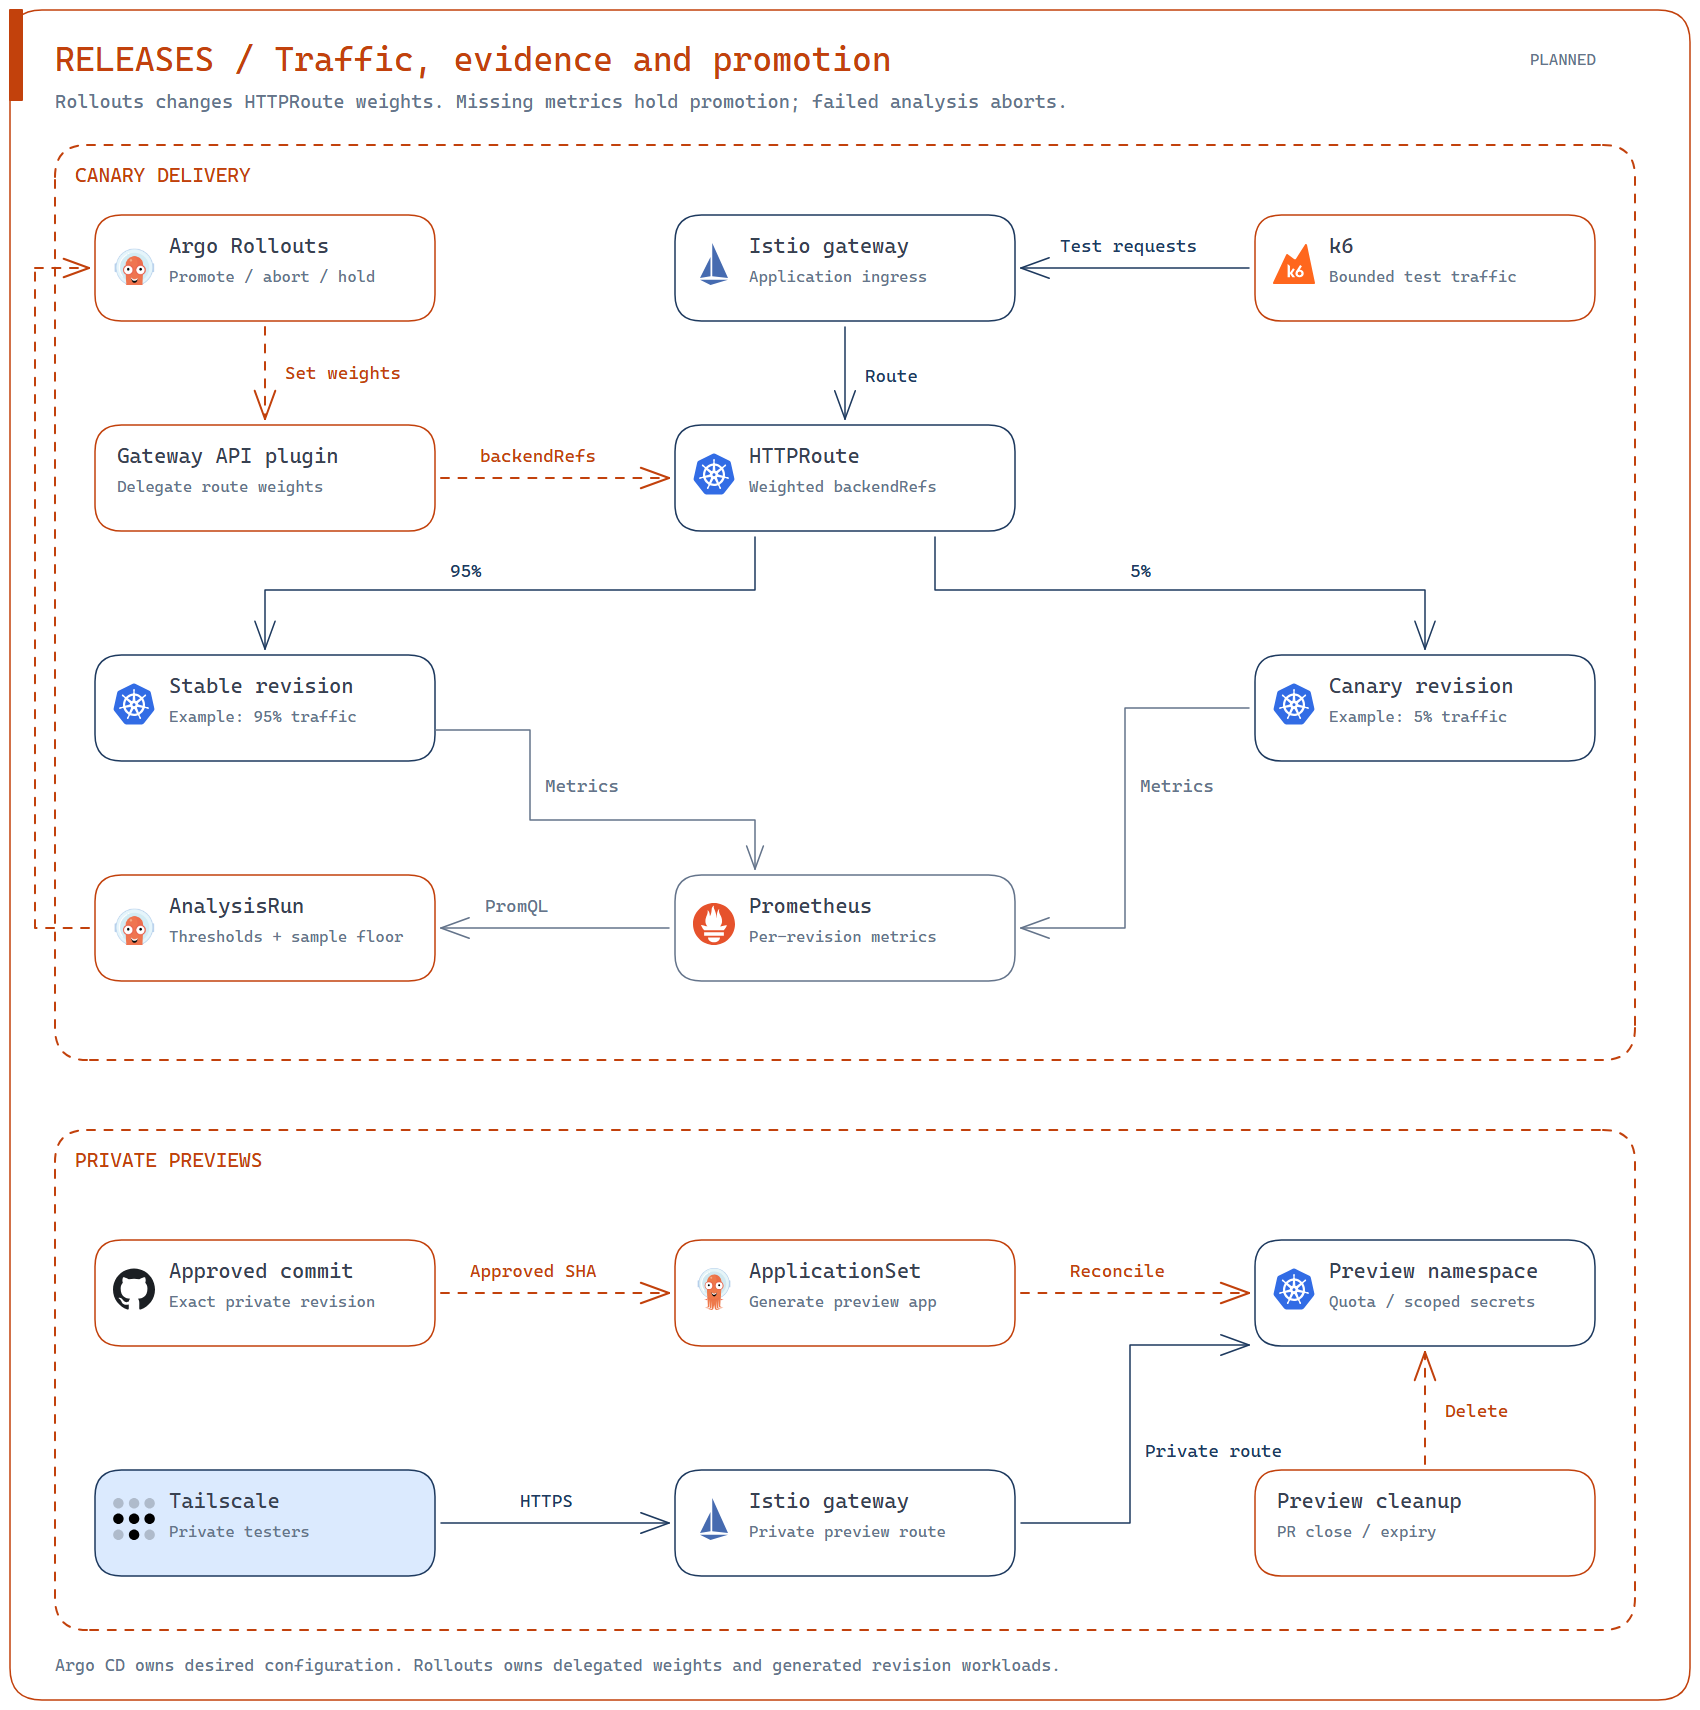
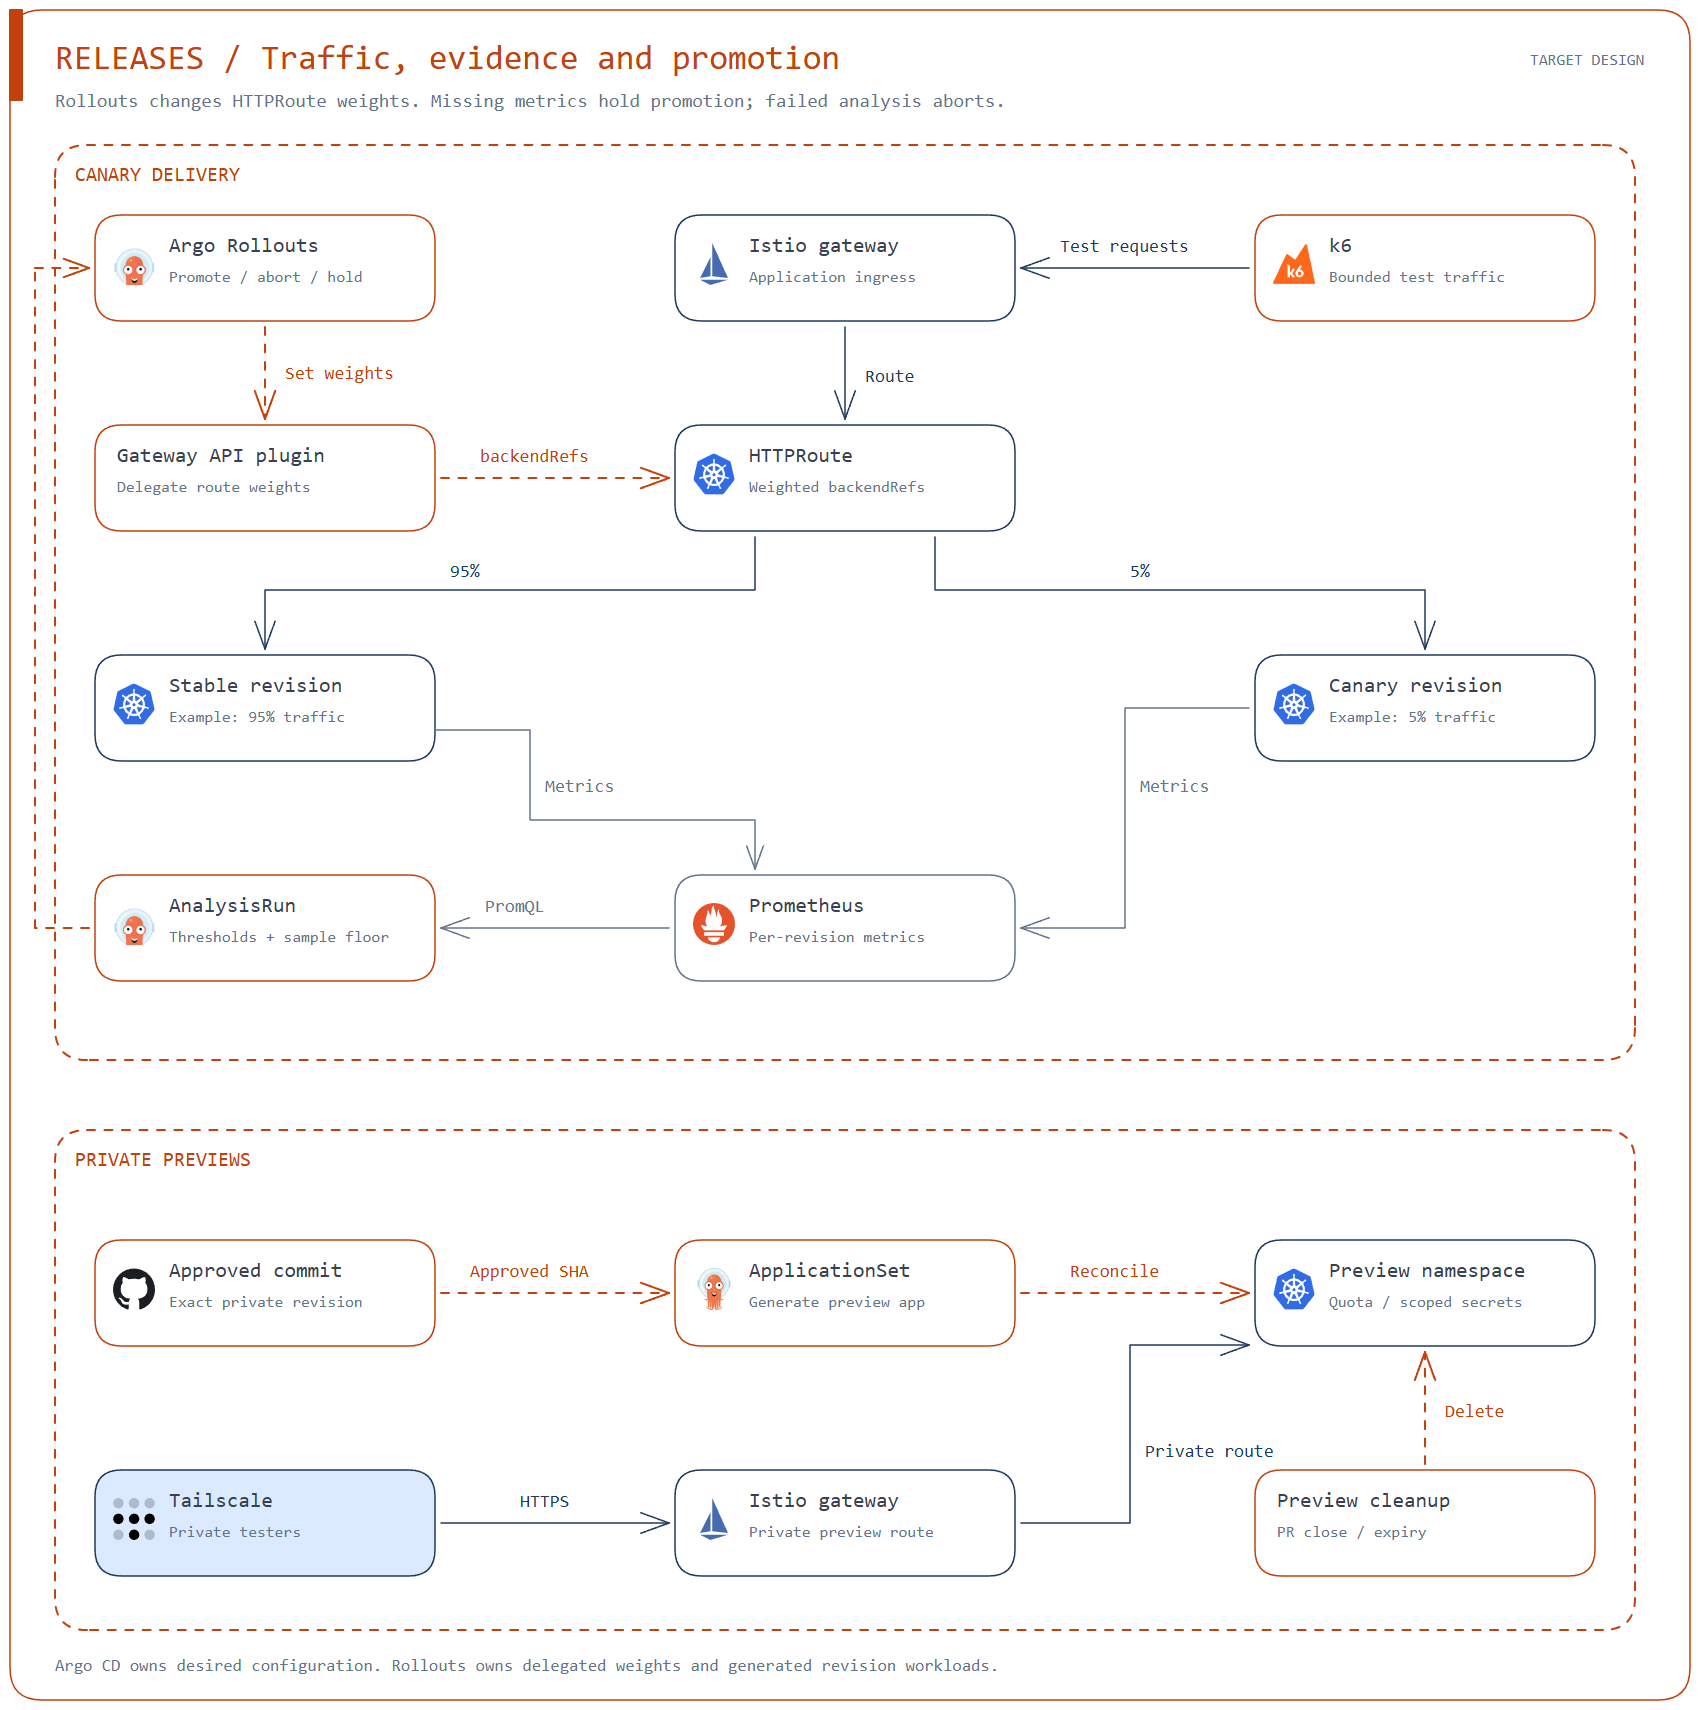
docs: refresh architecture diagrams and descriptions for local OpenTofu (#175)
* docs: align OpenTofu diagrams with local Compose execution

* docs: review all architecture views and refresh captions

diff --git a/README.md b/README.md
@@ -6,6 +6,9 @@ A K3s cluster on two cloud VMs, managed with Ansible and Docker Compose.
 
 ## Architecture
 
+Ansible manages hosts, Argo CD manages Kubernetes, and local Compose runs OpenTofu
+for external resources. GitLab stores encrypted infrastructure state.
+
 ![Architecture](assets/arch.png)
 
 ## The lab
@@ -118,12 +121,12 @@ Deployment still depends on inputs and verification.
 | Identity | Keycloak | Realm configuration, passkeys and application OIDC | Available |
 | Recovery | SQLite + restic | Monthly control plane export with separate credentials and recovery checks | Available |
 | Packaging | Helm | Versioned workload charts | Available |
-| Runners | ARC | Separate application and infrastructure runners | Planned |
+| Runners | ARC | Ephemeral runners for trusted application builds | Planned |
 | Registry | Harbor | Private images and OCI charts | Planned |
 | Builds | BuildKit | Rootless image builds | Planned |
 | Supply chain | Trivy + Cosign | Scan, sign and verify images | Planned |
 | Policy | Kyverno | Admission and image policies | Planned |
-| GitOps | ApplicationSet | Admin-approved app deployments and scoped data requests | Enabled |
+| GitOps | ApplicationSet | Admin-approved app deployments and scoped data requests | Available |
 | Releases | Argo Rollouts | Canary releases and previews | Planned |
 | Metrics | Prometheus + Alertmanager | Metrics, SLOs and alerts | Available |
 | Logs | Grafana Alloy + Loki | Collect and store redacted logs | Available |
@@ -143,7 +146,7 @@ volume.
 | Public access | Cloudflare Tunnel + Access | Outbound tunnel, verified origin HTTPS and explicit human/machine policies | Available |
 | Source | GitHub | Code and GitOps repositories | Available |
 | Certificates | Let's Encrypt | Public TLS certificates | Available |
-| Infrastructure state | GitLab | Encrypted state with a separate lock for each root | In progress ([#122](https://github.com/UncleThreeHomeLab/yasai-cloudlab/pull/122)) |
+| Infrastructure state | GitLab | Encrypted state with a separate lock for each root | Available |
 | Monitoring | UptimeRobot | Independent HTTPS checks and email alerts | Available |
 
 ### Automation
@@ -152,30 +155,35 @@ volume.
 | --- | --- | --- |
 | Ansible | Configure and verify hosts and the cluster | Available |
 | Docker Compose | Run the pinned automation environment | Available |
-| OpenTofu | Manage external resources, with Compose for bootstrap and recovery | In progress ([#122](https://github.com/UncleThreeHomeLab/yasai-cloudlab/pull/122)) |
-| GitHub Actions | Trusted builds and infrastructure jobs through ARC | Planned |
+| OpenTofu | Manage external resources locally through Compose | Available |
+| GitHub Actions | Trusted application builds through ARC | Planned |
 | Renovate | Reviewed dependency updates | Planned |
 
 ## Detailed flows
+
+Diagrams show the target design, including planned components. The stack tables
+show implementation status.
 
 ### Access
 
 Cloudflare Tunnel carries public requests to the public Istio gateway.
 Tailscale carries private requests to a separate gateway. Both route to apps over
 HTTPS. cert-manager manages certificates and Cloudflare Access protects selected public hosts.
+Local Compose runs apply reviewed OpenTofu changes to Cloudflare DNS, tunnel routes
+and Access policies. Certificate DNS-01 records remain with cert-manager.
 
 ![Access](assets/access.png)
 
 ### Identity
 
-Users sign in through Keycloak. Apps use OIDC tokens and roles to control access.
+Users sign in through Keycloak. The platform realm serves operator tools; the
+applications realm serves apps. Serialized config-cli jobs reconcile managed
+identity settings. Apps validate OIDC access tokens and roles to control access.
 External Secrets copies scoped credentials from 1Password into Kubernetes.
 Background refreshes run once a day to bound vault requests. Explicit
 credential rotations request immediate refresh; failed synchronization retains
 existing Secrets and reports degraded health. Other vault edits can take up to
 24 hours to reach applications.
-Kiali inspects the control plane through pod port-forwarding restricted to
-`istio-system`; its workload configuration access remains read-only.
 Apply retries an exhausted root or identity sync only when its failures were
 ExternalSecrets that became Ready after the failed operation. Other failures
 remain visible; retries preserve the source, credentials and data.
@@ -185,42 +193,52 @@ Istio encrypts traffic between workloads and checks which services may communica
 
 ### Delivery
 
-GitHub Actions runs trusted builds on ARC workers in Cloudlab. Images are built,
-scanned, signed and stored in Harbor. Argo CD reads public or private GitOps repos
-and deploys the selected images. Dedicated infrastructure runners execute OpenTofu.
-GitHub governance runs separately through Compose.
+The planned build path uses GitHub Actions and ARC workers in Cloudlab. Images
+are built, scanned, signed and stored in Harbor. Argo CD reads public or private
+GitOps repos and deploys the selected images. OpenTofu runs locally through Compose on a trusted
+operator endpoint. GitHub governance uses a separate Compose client.
 
 ![Delivery](assets/delivery.png)
 
 ### Releases
 
-Argo Rollouts sends a small share of traffic to a new revision. Prometheus metrics
-and k6 tests guide promotion or rollback. ApplicationSet creates private previews
-for approved revisions. Preview resources are removed when the preview closes or expires.
+The planned release path uses Argo Rollouts and a Gateway API plugin to adjust
+HTTPRoute weights. Per-revision Prometheus metrics and bounded k6 tests guide
+promotion or abort; missing metrics or insufficient samples block promotion.
+ApplicationSet creates private previews for exact approved revisions. Dedicated
+cleanup removes previews when their PR closes or their lifetime expires.
 
 ![Releases](assets/releases.png)
 
 ### Data
 
 Apps use PostgreSQL managed by CloudNativePG and private S3 storage from SeaweedFS.
-Longhorn replicates their volumes across both VMs. Coordinated monthly backups go
-to B2. Isolated restores check that databases and objects can be recovered.
+The data module provisions application SQL grants and buckets.
+Longhorn replicates their volumes across both VMs; the database and S3 services
+remain single-instance. Coordinated monthly Longhorn backups go to B2.
+Isolated restores check databases and objects together. Replication is not backup.
 
 ![Data](assets/data.png)
 
 ### Observability
 
 Prometheus collects metrics. Alloy sends logs to Loki and traces to Tempo.
+Git provisions dashboards, data sources and alert rules.
 Grafana brings these signals together, Kiali shows mesh traffic and Alertmanager
-routes alerts. UptimeRobot checks public access independently. Telemetry stays on local storage.
+routes alerts. Grafana and Kiali require Keycloak. Kiali reads mesh configuration
+and inspects the control plane through pod port-forwarding restricted to
+`istio-system`. UptimeRobot checks public health independently every five minutes
+and sends outage and recovery emails. Telemetry stays on local Longhorn storage
+with bounded retention and no routine B2 backup.
 
 ![Observability](assets/observability.png)
 
 ### Foundation
 
-Compose runs Ansible to configure both VMs and K3s. Dedicated ARC runners apply
-reviewed OpenTofu changes to Cloudflare and Harbor, with encrypted state in GitLab.
-Compose remains available for bootstrap, recovery and GitHub governance.
+Compose runs Ansible to configure both VMs and K3s. A trusted operator endpoint
+runs Compose to apply reviewed OpenTofu changes to Cloudflare and Harbor, with
+encrypted state and separate locks per root in GitLab. Compose also handles
+bootstrap, recovery and separate GitHub governance.
 K3s recovery uses a separate monthly restic backup to B2.
 
 ![Foundation](assets/foundation.png)
